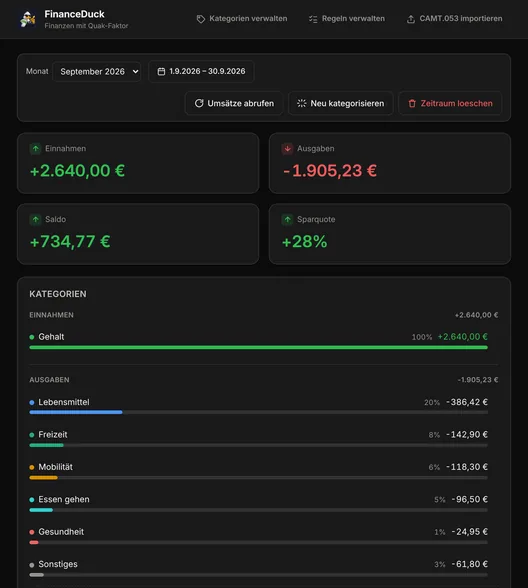
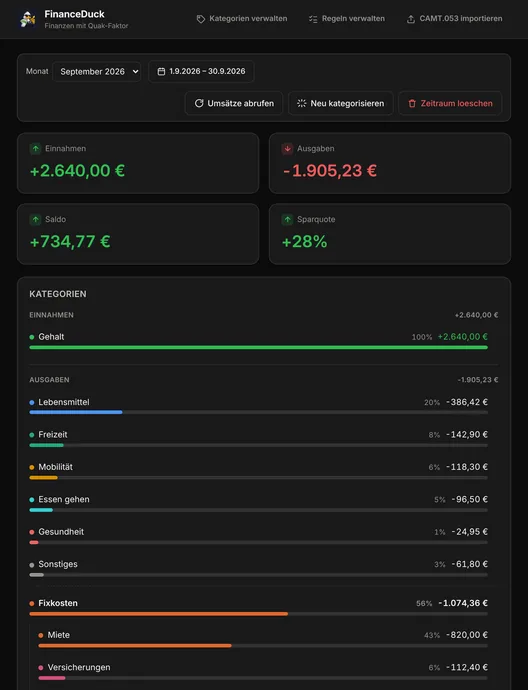
FinanceDuck direkt unter dem iPhone-Vergleich, Bild nicht mehr seitlich beschnitten
- Kachel rückt nach oben, direkt unter iPhone-Vergleich, Liar's Dice und Monopoly
- Höheres Dashboard-Bild (mit Fixkosten), wird neben dem Text vollständig gezeigt
- Bis 1100 px Bild über dem Text, dort nur unten statt an den Seiten beschnitten

Claude-Session: https://claude.ai/code/session_017jzc5V7kfsUZxS3aoCahxZ

diff --git a/public/index.html b/public/index.html
@@ -334,6 +334,25 @@
           </div>
         </article>
       </li>
+      <li class="proj span-12" data-tags="web tool finanzen banking dotnet csharp react typescript sqlite docker team tailscale vpn raspberry" data-reveal>
+        <article class="card card-media card-wide">
+          <figure class="shot-wrap"><img class="shot" src="img/projekte/finance-duck.webp" srcset="img/projekte/finance-duck-640.webp 528w, img/projekte/finance-duck.webp 1056w" sizes="(max-width: 860px) 92vw, 680px" alt="FinanceDuck: Monats-Dashboard mit Einnahmen, Ausgaben, Saldo, Sparquote und Kategorien samt Fixkosten, hier mit erfundenen Beispieldaten" width="1056" height="1380" loading="lazy" decoding="async"></figure>
+          <div class="card-body">
+            <p class="card-path">finance-duck/ <span class="mono-label">Teamprojekt · Beispieldaten</span></p>
+            <h3 class="card-title">FinanceDuck</h3>
+            <p class="card-lede">Wohin ist mein Geld diesen Monat geflossen?</p>
+            <p>Ein Finanz-Tool, das ich zusammen mit einem Kollegen baue: Es holt die eigenen Kontoumsätze, sortiert sie über selbst festgelegte Regeln in Kategorien und zeigt pro Monat auf einen Blick, wohin das Geld gegangen ist. Es läuft selbst gehostet in Docker auf meinem Raspberry Pi und ist nicht öffentlich im Netz: Zugriff gibt es nur über ein privates VPN (Tailscale). So landen die Bankdaten bei keinem fremden Cloud-Dienst.</p>
+            <dl class="opts">
+              <div><dt>--import</dt><dd>Direkt über die PSD2-Schnittstelle (Enable Banking) oder als CAMT.052/053-Export aus dem Online-Banking. Doppelte Buchungen werden erkannt.</dd></div>
+              <div><dt>--regeln</dt><dd>Feste Zuordnungen wie „Fitnessstudio → Freizeit“. Bei PayPal zählt der Verwendungszweck, nicht der Zahlungsdienst. Wer eine Buchung umsortiert, kann daraus gleich eine Regel machen.</dd></div>
+              <div><dt>--dashboard</dt><dd>Einnahmen, Ausgaben, Saldo und Sparquote, Kategorien mit Anteilen, Fixkosten gebündelt. Ein Klick auf eine Kategorie zeigt die passenden Buchungen.</dd></div>
+              <div><dt>--mein-teil</dt><dd>Dashboard-Redesign mit Kennzahlen und Kategorieliste, Datumsbereich-Kalender, Umsortieren direkt in der Buchungsliste, ein Fix für den CAMT.053-Import, das Handy-Layout und das Hosting auf meinem Raspberry Pi samt Zugang per Tailscale-VPN.</dd></div>
+            </dl>
+            <ul class="tags"><li>C# · .NET 8</li><li>React</li><li>TypeScript</li><li>SQLite</li><li>Docker</li><li>Tailscale</li></ul>
+            <p class="card-links"><a class="link-arrow" href="https://github.com/DuckOfJustice/FinanceAgent" rel="noopener" target="_blank">GitHub <span aria-hidden="true">↗</span></a></p>
+          </div>
+        </article>
+      </li>
       <li class="proj span-4" data-tags="spiele 3d karten uno threejs" data-reveal style="--d:1">
         <article class="card card-media">
           <figure class="shot-wrap"><img class="shot" src="img/projekte/uno.webp" srcset="img/projekte/uno-640.webp 640w, img/projekte/uno.webp 1280w" sizes="(max-width: 640px) 92vw, (max-width: 1100px) 46vw, 400px" alt="Uno No Mercy auf dem 3D-Tisch" width="1280" height="800" loading="lazy" decoding="async"></figure>
@@ -437,25 +456,6 @@
             <h3 class="card-title">Der Eiserne Thron</h3>
             <p class="card-lede">Brettspiel-Umsetzung für private Runden</p>
             <p>Ein privates Projekt für den eigenen Spieleabend.</p>
-          </div>
-        </article>
-      </li>
-      <li class="proj span-12" data-tags="web tool finanzen banking dotnet csharp react typescript sqlite docker team tailscale vpn raspberry" data-reveal>
-        <article class="card card-media card-wide">
-          <figure class="shot-wrap"><img class="shot" src="img/projekte/finance-duck.webp" srcset="img/projekte/finance-duck-640.webp 528w, img/projekte/finance-duck.webp 1056w" sizes="(max-width: 860px) 92vw, 680px" alt="FinanceDuck: Monats-Dashboard mit Einnahmen, Ausgaben, Saldo, Sparquote und Kategorien samt Fixkosten, hier mit erfundenen Beispieldaten" width="1056" height="1176" loading="lazy" decoding="async"></figure>
-          <div class="card-body">
-            <p class="card-path">finance-duck/ <span class="mono-label">Teamprojekt · Beispieldaten</span></p>
-            <h3 class="card-title">FinanceDuck</h3>
-            <p class="card-lede">Wohin ist mein Geld diesen Monat geflossen?</p>
-            <p>Ein Finanz-Tool, das ich zusammen mit einem Kollegen baue: Es holt die eigenen Kontoumsätze, sortiert sie über selbst festgelegte Regeln in Kategorien und zeigt pro Monat auf einen Blick, wohin das Geld gegangen ist. Es läuft selbst gehostet in Docker auf meinem Raspberry Pi und ist nicht öffentlich im Netz: Zugriff gibt es nur über ein privates VPN (Tailscale). So landen die Bankdaten bei keinem fremden Cloud-Dienst.</p>
-            <dl class="opts">
-              <div><dt>--import</dt><dd>Direkt über die PSD2-Schnittstelle (Enable Banking) oder als CAMT.052/053-Export aus dem Online-Banking. Doppelte Buchungen werden erkannt.</dd></div>
-              <div><dt>--regeln</dt><dd>Feste Zuordnungen wie „Fitnessstudio → Freizeit“. Bei PayPal zählt der Verwendungszweck, nicht der Zahlungsdienst. Wer eine Buchung umsortiert, kann daraus gleich eine Regel machen.</dd></div>
-              <div><dt>--dashboard</dt><dd>Einnahmen, Ausgaben, Saldo und Sparquote, Kategorien mit Anteilen, Fixkosten gebündelt. Ein Klick auf eine Kategorie zeigt die passenden Buchungen.</dd></div>
-              <div><dt>--mein-teil</dt><dd>Dashboard-Redesign mit Kennzahlen und Kategorieliste, Datumsbereich-Kalender, Umsortieren direkt in der Buchungsliste, ein Fix für den CAMT.053-Import, das Handy-Layout und das Hosting auf meinem Raspberry Pi samt Zugang per Tailscale-VPN.</dd></div>
-            </dl>
-            <ul class="tags"><li>C# · .NET 8</li><li>React</li><li>TypeScript</li><li>SQLite</li><li>Docker</li><li>Tailscale</li></ul>
-            <p class="card-links"><a class="link-arrow" href="https://github.com/DuckOfJustice/FinanceAgent" rel="noopener" target="_blank">GitHub <span aria-hidden="true">↗</span></a></p>
           </div>
         </article>
       </li>

diff --git a/public/en/index.html b/public/en/index.html
@@ -335,6 +335,25 @@
           </div>
         </article>
       </li>
+      <li class="proj span-12" data-tags="web tool finance banking dotnet csharp react typescript sqlite docker team tailscale vpn raspberry" data-reveal>
+        <article class="card card-media card-wide">
+          <figure class="shot-wrap"><img class="shot" src="../img/projekte/finance-duck.webp" srcset="../img/projekte/finance-duck-640.webp 528w, ../img/projekte/finance-duck.webp 1056w" sizes="(max-width: 860px) 92vw, 680px" alt="FinanceDuck: monthly dashboard with income, expenses, balance, savings rate and categories including fixed costs, shown with made-up sample data" width="1056" height="1380" loading="lazy" decoding="async"></figure>
+          <div class="card-body">
+            <p class="card-path">finance-duck/ <span class="mono-label">team project · sample data</span></p>
+            <h3 class="card-title">FinanceDuck</h3>
+            <p class="card-lede">Where did my money go this month?</p>
+            <p>A finance tool I am building together with a colleague: it fetches your own bank transactions, sorts them into categories using rules you define, and shows at a glance where the money went each month. It is self-hosted in Docker on my Raspberry Pi and not publicly reachable: access only works through a private VPN (Tailscale). That way the bank data never ends up with a third-party cloud service.</p>
+            <dl class="opts">
+              <div><dt>--import</dt><dd>Directly through the PSD2 interface (Enable Banking) or as a CAMT.052/053 export from online banking. Duplicate bookings are detected.</dd></div>
+              <div><dt>--rules</dt><dd>Fixed mappings like “gym → leisure”. For PayPal the payment reference counts, not the payment provider. Re-sorting a booking can turn it into a rule right away.</dd></div>
+              <div><dt>--dashboard</dt><dd>Income, expenses, balance and savings rate, categories with their share, fixed costs grouped. Clicking a category shows its bookings.</dd></div>
+              <div><dt>--my-part</dt><dd>Dashboard redesign with key figures and category list, date range calendar, re-sorting right in the booking list, a fix for the CAMT.053 import, the mobile layout and the hosting on my Raspberry Pi, including access via Tailscale VPN.</dd></div>
+            </dl>
+            <ul class="tags"><li>C# · .NET 8</li><li>React</li><li>TypeScript</li><li>SQLite</li><li>Docker</li><li>Tailscale</li></ul>
+            <p class="card-links"><a class="link-arrow" href="https://github.com/DuckOfJustice/FinanceAgent" rel="noopener" target="_blank">GitHub <span aria-hidden="true">↗</span></a></p>
+          </div>
+        </article>
+      </li>
       <li class="proj span-4" data-tags="games spiele 3d karten cards uno threejs" data-reveal style="--d:1">
         <article class="card card-media">
           <figure class="shot-wrap"><img class="shot" src="../img/projekte/uno.webp" srcset="../img/projekte/uno-640.webp 640w, ../img/projekte/uno.webp 1280w" sizes="(max-width: 640px) 92vw, (max-width: 1100px) 46vw, 400px" alt="Uno No Mercy on the 3D table" width="1280" height="800" loading="lazy" decoding="async"></figure>
@@ -438,25 +457,6 @@
             <h3 class="card-title">Der Eiserne Thron</h3>
             <p class="card-lede">Board game adaptation for private sessions</p>
             <p>A private project for our own game night.</p>
-          </div>
-        </article>
-      </li>
-      <li class="proj span-12" data-tags="web tool finance banking dotnet csharp react typescript sqlite docker team tailscale vpn raspberry" data-reveal>
-        <article class="card card-media card-wide">
-          <figure class="shot-wrap"><img class="shot" src="../img/projekte/finance-duck.webp" srcset="../img/projekte/finance-duck-640.webp 528w, ../img/projekte/finance-duck.webp 1056w" sizes="(max-width: 860px) 92vw, 680px" alt="FinanceDuck: monthly dashboard with income, expenses, balance, savings rate and categories including fixed costs, shown with made-up sample data" width="1056" height="1176" loading="lazy" decoding="async"></figure>
-          <div class="card-body">
-            <p class="card-path">finance-duck/ <span class="mono-label">team project · sample data</span></p>
-            <h3 class="card-title">FinanceDuck</h3>
-            <p class="card-lede">Where did my money go this month?</p>
-            <p>A finance tool I am building together with a colleague: it fetches your own bank transactions, sorts them into categories using rules you define, and shows at a glance where the money went each month. It is self-hosted in Docker on my Raspberry Pi and not publicly reachable: access only works through a private VPN (Tailscale). That way the bank data never ends up with a third-party cloud service.</p>
-            <dl class="opts">
-              <div><dt>--import</dt><dd>Directly through the PSD2 interface (Enable Banking) or as a CAMT.052/053 export from online banking. Duplicate bookings are detected.</dd></div>
-              <div><dt>--rules</dt><dd>Fixed mappings like “gym → leisure”. For PayPal the payment reference counts, not the payment provider. Re-sorting a booking can turn it into a rule right away.</dd></div>
-              <div><dt>--dashboard</dt><dd>Income, expenses, balance and savings rate, categories with their share, fixed costs grouped. Clicking a category shows its bookings.</dd></div>
-              <div><dt>--my-part</dt><dd>Dashboard redesign with key figures and category list, date range calendar, re-sorting right in the booking list, a fix for the CAMT.053 import, the mobile layout and the hosting on my Raspberry Pi, including access via Tailscale VPN.</dd></div>
-            </dl>
-            <ul class="tags"><li>C# · .NET 8</li><li>React</li><li>TypeScript</li><li>SQLite</li><li>Docker</li><li>Tailscale</li></ul>
-            <p class="card-links"><a class="link-arrow" href="https://github.com/DuckOfJustice/FinanceAgent" rel="noopener" target="_blank">GitHub <span aria-hidden="true">↗</span></a></p>
           </div>
         </article>
       </li>

diff --git a/public/css/style.css b/public/css/style.css
@@ -493,13 +493,16 @@ figcaption a { color: var(--text); }
 
 /* Breite Projektkachel: Bild links, Text rechts (FinanceDuck) */
 .card-wide { flex-direction: row; }
-.card-wide .shot-wrap { flex: 0 0 55%; aspect-ratio: auto; border-bottom: 0; border-right: 1px solid var(--line); }
-.card-wide .shot { object-position: left top; }
+/* Bild nie beschneiden: ganz zeigen, Rest in der Hintergrundfarbe des Dashboards */
+.card-wide .shot-wrap { flex: 0 0 52%; aspect-ratio: auto; border-bottom: 0; border-right: 1px solid var(--line); background: #0b0b0c; }
+.card-wide .shot { object-fit: contain; object-position: center top; }
 .card-wide .card-body { justify-content: center; }
 .card-wide .opts { margin: var(--space-4) 0 var(--space-4); }
-@media (max-width: 860px) {
+@media (max-width: 1100px) {
   .card-wide { flex-direction: column; }
-  .card-wide .shot-wrap { flex: none; aspect-ratio: 16 / 10; border-right: 0; border-bottom: 1px solid var(--line); }
+  .card-wide .shot-wrap { flex: none; aspect-ratio: 16 / 11; border-right: 0; border-bottom: 1px solid var(--line); }
+  /* Volle Breite zeigen, unten abschneiden statt an den Seiten */
+  .card-wide .shot { object-fit: cover; object-position: center top; }
 }
 
 /* Last-Arrow-Galerie: Karte groß, Burg und Gegnerburg daneben */
